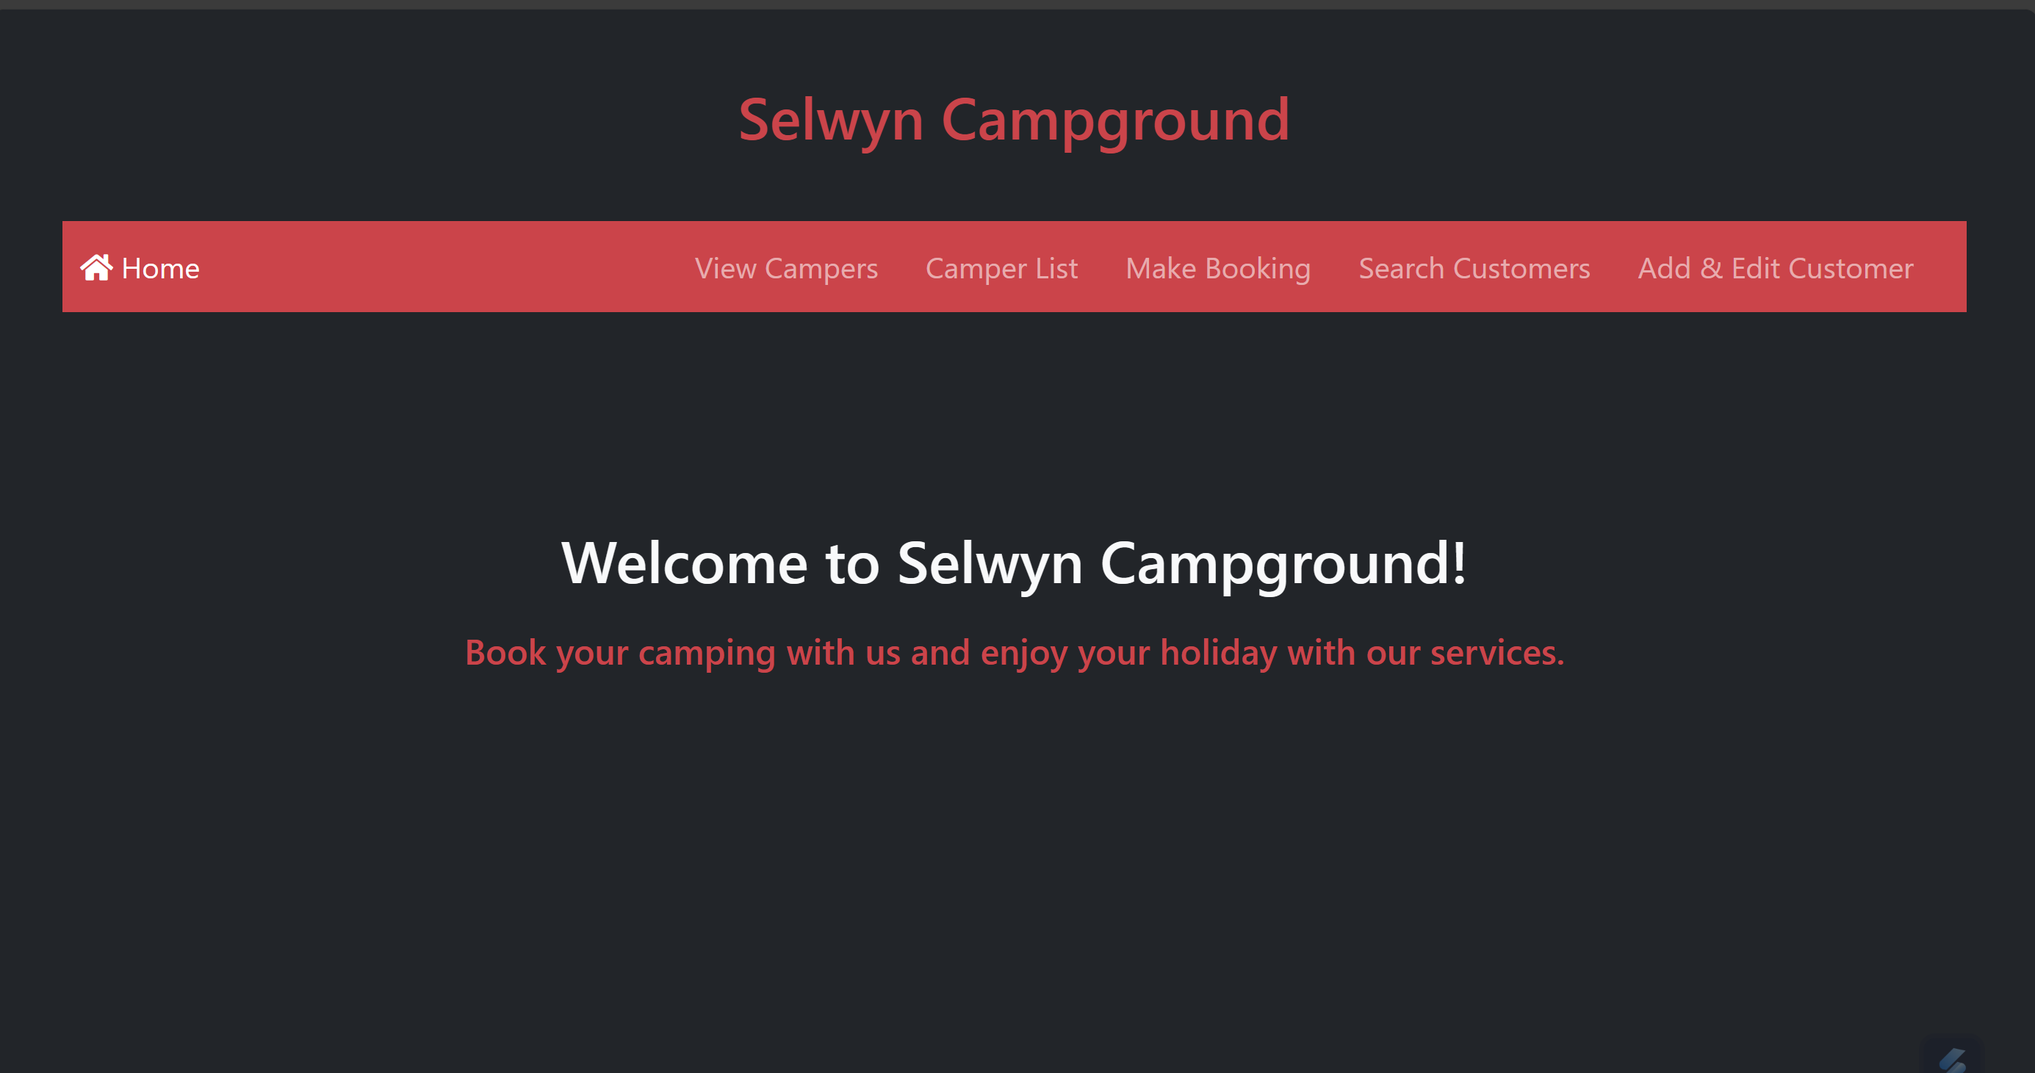
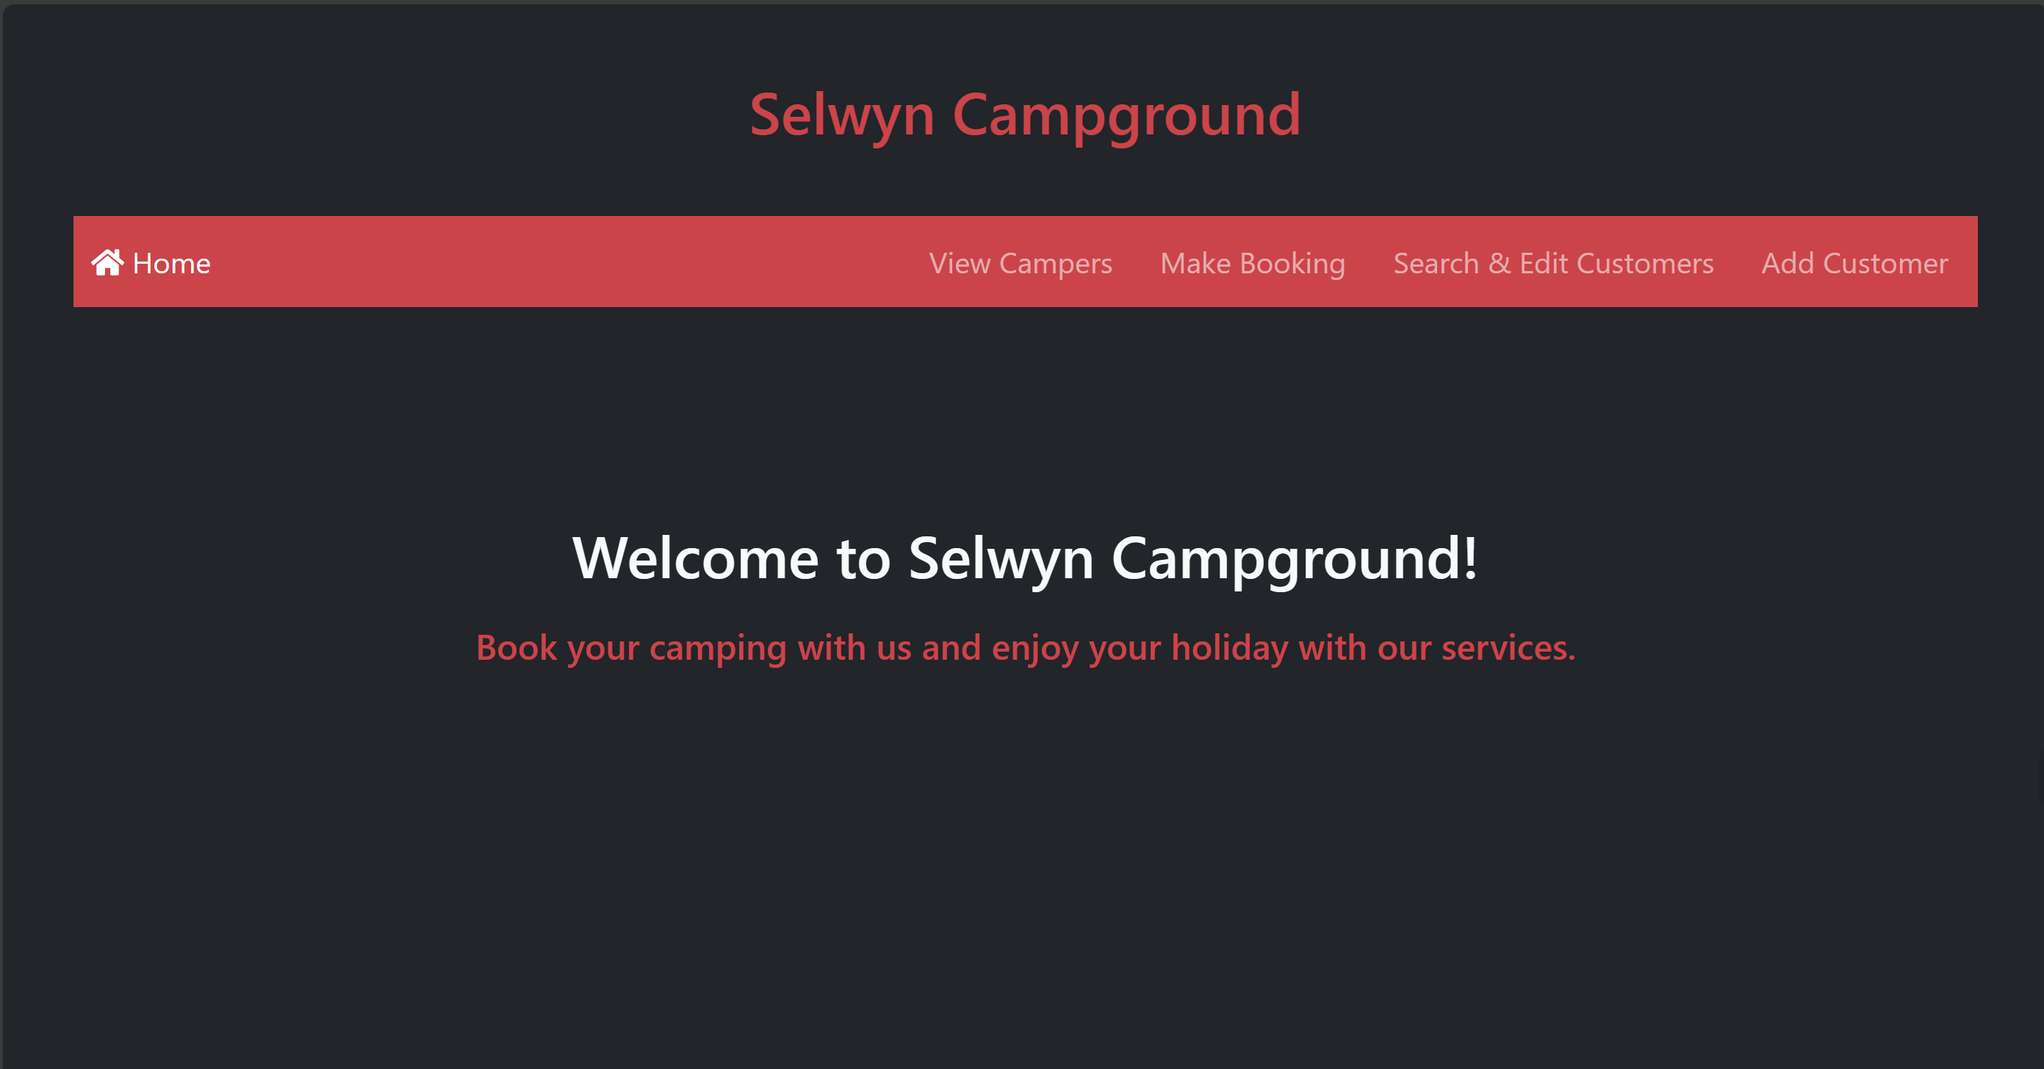
add some style- bootstrap

diff --git a/templates/addeditcustomer.html b/templates/addeditcustomer.html
@@ -1,51 +1,45 @@
 {% extends "base.html" %}
 {% block content %}
 
-<div class="container-zone mt-5 justify-content-center mx-5">
-  <h2 class="text-danger text-center">{{ 'Edit' if customer else 'Add' }} Customer</h2>
-  <!--form for add or edit customer-->
-  <!-- Modal for Success Message -->
-<div class="modal fade" id="successModal" tabindex="-1" aria-labelledby="successModalLabel" aria-hidden="true">
-<div class="modal-dialog">
-<div class="modal-content">
-  <div class="modal-header">
-    <h5 class="modal-title" id="successModalLabel">Success!</h5>
-    <button type="button" class="btn-close" data-bs-dismiss="modal" aria-label="Close"></button>
-  </div>
-  <div class="modal-body">
-    Customer has been successfully added.
-  </div>
-</div>
-</div>
-</div>
+<div class="container mt-5">
+  <div class="row justify-content-center">
+      <div class="col-md-8">
+          <h2 class="text-danger text-center mt-2">{{ mode }} Customer</h2>
+
+<!-- Flash messages -->
+{% with messages = get_flashed_messages(with_categories=true) %}
+    {% if messages %}
+        {% for category, message in messages %}
+            <div class=" fs-5 text-center alert alert-{{ category }}">{{ message }}</div>
+        {% endfor %}
+    {% endif %}
+{% endwith %}
+
 <!--form for adding customer-->
-  <form action="{{ url_for('add_edit_customer') }}" method="post" class="m-5 needs-validation novalidate">
+  <form action="{{ url_for('add_edit_customer') }}" method="post" class="needs-validation novalidate mt-5">
       <div class="mb-3">
-          <label for="firstname" class="form-label text-light">First Name</label>
-          <input type="text" class="form-control" id="firstname" name="firstname" value="{{ customer[1].firstname if customer else '' }}" required>
+          <!--<label for="firstname" class="form-label text-light">First Name</label>-->
+          <input type="text" class="form-control " id="firstname" name="firstname" placeholder="First Name" value="{{ customer.firstname if customer else '' }}" required>
       </div>
       <div class="mb-3">
-          <label for="familyname" class="form-label text-light">Family Name</label>
-          <input type="text" class="form-control" id="familyname" name="familyname" value="{{ customer[2].familyname if customer else '' }}" required>
+         <!-- <label for="familyname" class="form-label text-light">Family Name</label>-->
+          <input type="text" class="form-control " id="familyname" name="familyname" placeholder="Family Name" value="{{ customer.familyname if customer else '' }}" required>
       </div>
       <div class="mb-3">
-          <label for="email" class="form-label text-light">Email</label>
-          <input type="email" class="form-control" id="email" name="email" value="{{ customer[3].email if customer else '' }}" required>
+         <!-- <label for="email" class="form-label text-light">Email</label>-->
+          <input type="email" class="form-control " id="email" name="email" placeholder="Email" value="{{ customer.email if customer else '' }}" required>
       </div>
       <div class="mb-3">
-          <label for="phone" class="form-label text-light">Phone</label>
-          <input type="text" class="form-control p53" id="phone" name="phone" value="{{ customer[4].phone if customer else '' }}" required>
+          <!--<label for="phone" class="form-label text-light">Phone</label>-->
+          <input type="text" class="form-control " id="phone"  name="phone" placeholder="Phone" value="{{ customer.phone if customer else '' }}" required>
       </div>
       <div class="d-flex justify-content-center">
-          <button type="submit" class="btn btn-danger">{{ 'Update' if customer else 'Add' }} Customer</button>
+          <button type="submit" class="btn btn-danger btn-outline-successprimary justify-content-center fs-6 w-25">{{ 'Update' if customer else 'Add' }} Customer</button>
       </div>
 
-  </form>
-  {% for message in get_flashed_messages() %}
-  <script>
-    $(document).ready(function(){
-      $('#successModal').modal('show');
-    });
-  </script>
-{% endfor %}
+    </form>
+  </div>
+</div>
+</div>
+  
 {% endblock %}

diff --git a/templates/base.html b/templates/base.html
@@ -20,26 +20,30 @@
                 <span class="navbar-toggler-icon"></span>
             </button>
             <!--Navbar items styled with bootstrap-->
-            <div class="collapse navbar-collapse" id="navbarNav">
-                <ul class="navbar-nav ms-auto text-light">
+            <div class="collapse navbar-collapse pr-4" id="navbarNav">
+                <ul class="navbar-nav ms-auto text-light pr-4">
                     
                     <li class="nav-item pe-3 text-light">
                       <!--code in the double parantesis is for turning text black, when the page is open-->
                         <a class="nav-link fs-5 {{ 'text-dark' if request.endpoint == 'campers' else '' }}" href="{{ url_for('campers') }}">View Campers</a>
                     </li>
-                    <li class="nav-item pe-3 text-light">
+                    <!--<li class="nav-item pe-3 text-light">
                         <a class="nav-link fs-5 {{ 'text-dark' if request.endpoint == 'camper_list' else '' }}" href="{{ url_for('camper_list') }}">Camper List</a>
-                    </li>
+                    </li>-->
                     <li class="nav-item pe-3 text-light">
                         <a class="nav-link fs-5 {{ 'text-dark' if request.endpoint == 'booking' else '' }}"  href="{{ url_for('booking') }}">Make Booking</a>
                     </li>
                     <li class="nav-item pe-3 text-light">
-                        <a class="nav-link fs-5 {{ 'text-dark' if request.endpoint == 'search_customers' else '' }}" href="{{ url_for('search_customers') }}">Search Customers</a>
-                    </li>
-                    <li class="nav-item pe-3 text-light">
-                        <a class="nav-link fs-5 {{ 'text-dark' if request.endpoint == 'add_edit_customer' else '' }}" href="{{ url_for('add_edit_customer') }}">Add & Edit Customer</a>
-                    </li>
-                </ul>
+                        <a class="nav-link fs-5 {{ 'text-dark' if request.endpoint == 'search_customers' else '' }}" href="{{ url_for('search_customers') }}">Search & Edit Customers</a>
+                      </li>
+                        <li class="nav-item">
+                          {% if mode == 'Edit' %}
+                              <a class="nav-link fs-5" href="{{ url_for('add_edit_customer') }}">Edit Customer</a>
+                          {% else %}
+                              <a class="nav-link fs-5" href="{{ url_for('add_edit_customer') }}">Add Customer</a>
+                          {% endif %}
+                      </li>
+                 </ul>
             </div>
         </div>
     </nav>

diff --git a/templates/searchcustomers.html b/templates/searchcustomers.html
@@ -1,19 +1,21 @@
 {% extends "base.html" %}
 {% block content %}
-<div class="container-zone mt-5 justify-content-center mx-5">
+<div class="container mt-5">
+  <div class="row justify-content-center">
+      <div class="col-md-9">
   <h2 class=" text-danger text-center">Search Customers</h2>
-  <form action="{{ url_for('search_customers') }}" method="post" class="m-5 px-5" >
+  <form action="{{ url_for('search_customers') }}" method="post" class="m-5 " >
       <div class="mb-2">
-          <label for="search" class="form-label text-light">Customer Name:</label>
-          <input type="text" class="form-control" id="search" name="search">
+          <!--<label for="search" class="form-label text-light">Customer Name:</label>-->
+          <input type="text" class="form-control " id="search" name="search" placeholder="Customer Name">
       </div>
       <div class="d-flex justify-content-center">
-          <button type="submit" class="btn btn-danger">Search</button>
+          <button type="submit" class="btn btn-danger btn-outline-successprimary justify-content-center fs-6 w-25 mt-3">Search</button>
       </div>
   </form>
 {% if results %}
-    <h3 class=" text-light text-center m-3">Search results. Please click on the first name if you like to edit customer information:</h3>
-    <div class="container-zone mt-5 justify-content-center mx-5">
+    <h3 class=" text-light text-center m-3">Search results<br /><br />Please click on Edit if you like to edit customer information</h3>
+    <div class="container-zone mt-5 justify-content-center">
     <table class='table table-dark'>
         <tr>
             <th class=" text-light text-center">First Name</th>
@@ -28,12 +30,16 @@
             <td class=" text-light text-center">{{ customer[2] }}</td>
             <td class=" text-light text-center">{{ customer[3] }}</td>
             <td class=" text-light text-center">{{ customer[4] }}</td>
-            <td class=" text-light text-center"><a href="{{ url_for('add_edit_customer', id=customer[0]) }}">Edit</a></td>
+            <td class=" text-light text-center"><a class=" text-danger fs-5" href="{{ url_for('add_edit_customer', id=customer[0]) }}">Edit</a></td>
         </tr>
         {% endfor %}
     </table>
   </div>
+</div>
+</div>
 {% else %}
-    <p>No customers found. Try different keywords.</p>
+{% if message %}
+<h3 class=" text-light text-center">{{ message }}</h3>
+{% endif %}
 {% endif %}
 {% endblock %}

diff --git a/templates/datepicker.html b/templates/datepicker.html
@@ -1,26 +1,30 @@
 {% extends "base.html" %}
 {% block content %}
 <!-- code in here to display a list of books-->
-<div class="container-zone mt-5 justify-content-center mx-5">
-  <h2 class="text-danger text-center"> Make a Booking</h2>
+<div class="container mt-5">
+  <div class="row justify-content-center">
+      <div class="col-md-8">
+        <h2 class="text-danger text-center"> Make a Booking</h2>
   <h3 class="mb-3 text-light text-center">Choose the date you'd like the booking to start on.</h3>
   <form action="{{ url_for('booking') }}" method="POST" class="m-5">
       <div class="mb-3">
-          <label for="bookingdate" class="form-label text-light mx-5">Choose start night of booking</label>
-          <input type="date" class="form-control mx-5" min="{{ currentdate }}" name="bookingdate" required>
+          <label for="bookingdate" class="form-label text-light">Choose start night of booking</label>
+          <input type="date" class="form-control" min="{{ currentdate }}" name="bookingdate" required>
       </div>
       <div class="mb-3">
-          <label for="bookingnights" class="form-label text-light mx-5">Number of nights</label>
-          <input type="number" class="form-control mx-5" name="bookingnights" min="1" max="5" step="1" value="1" required>
+          <label for="bookingnights" class="form-label text-light">Number of nights</label>
+          <input type="number" class="form-control" name="bookingnights" min="1" max="5" step="1" value="1" required>
       </div>
       <div class="mb-3">
-          <label for="occupancy" class="form-label text-light mx-5">Number of people</label>
-          <input type="number" class="form-control mx-5" name="occupancy" min="1" max="8" step="1" value="1" required>
+          <label for="occupancy" class="form-label text-light">Number of people</label>
+          <input type="number" class="form-control" name="occupancy" min="1" max="8" step="1" value="1" required>
       </div>
       <div class="d-flex justify-content-center">
-      <button type="submit" class="btn btn-danger my-4">Submit</button>
+      <button type="submit" class="btn btn-danger btn-outline-successprimary justify-content-center fs-6 w-25 mt-3">Submit</button>
       </div>
   </form>
+</div>
+</div>
 </div>
 
 {% endblock %}

diff --git a/templates/datepickercamper.html b/templates/datepickercamper.html
@@ -1,7 +1,9 @@
 {% extends "base.html" %}
 {% block content %}
 <!-- code in here to display a list of books-->
-<div class="container-zone mt-5 justify-content-center mx-5">
+<div class="container mt-5">
+  <div class="row justify-content-center">
+      <div class="col-md-8">
   <h2 class="text-danger text-center "> Who is camping?</h2>
   <h3 class="mb-3">Choose the date you'd like to view who is camping.</h3>
   <form action="{{ url_for('camper_list') }}" method="get" class="m-5">
@@ -10,9 +12,11 @@
     <input type="date" class="form-control" id="campdate" name="campdate" value="{{ currentdate }}" required>
    </div>
       <div class="d-flex justify-content-center">
-      <button type="submit" class="btn btn-danger mt-2">View Campers</button>
+      <button type="submit" class="btn btn-danger btn-outline-successprimary justify-content-center fs-6 w-25 mt-3">View Campers</button>
       </div>
   </form>
+</div>
+</div>
 </div>
 
 {% endblock %}

diff --git a/templates/camperlist.html b/templates/camperlist.html
@@ -8,6 +8,14 @@
       {% for camper in camperlist %}
         <a href="#" class="list-group-item list-group-item-action text-light m-5">
           Name: {{ camper.firstname }} {{ camper.familyname }} - Site: {{ camper.site_id }} - Date: {{ camper.booking_date | date: "%Y-%m-%d" }}
+          <table class='table table-dark'>
+            <tr>
+                <th class=" text-light text-center">First Name</th>
+                <th class=" text-light text-center">Family Name</th>
+                <th class=" text-light text-center">Email</th>
+                <th class=" text-light text-center">Phone</th>
+                <th class=" text-light text-center">Edit</th>
+            </tr>
         </a>
       {% endfor %}
     {% else %}

diff --git a/app.py b/app.py
@@ -86,35 +86,27 @@ def booking():
         return render_template("bookingform.html", customerlist = customerList, bookingdate=bookingDate, sitelist = siteList, bookingnights = bookingNights)    
 
   # booking/add 
-@app.route("/booking/add", methods=['POST'])
 def makebooking():
-    cursor, conn = getCursor()
-    if not cursor:
-        flash("Database connection could not be established.", "error")
-        return redirect(url_for('booking'))
-
+    site = request.form.get('site')
+    customer = request.form.get('customer')
+    booking_date = request.form.get('bookingdate')
+    occupancy = request.form.get('occupancy')
+    booking_nights = int(request.form.get('bookingnights'))
+    cursor = getCursor()
+    end_date = datetime.strptime(booking_date, '%Y-%m-%d') + timedelta(days=booking_nights)
     try:
-        site = request.form.get('site')
-        customer = request.form.get('customer')
-        booking_date = request.form.get('bookingdate')
-        occupancy = request.form.get('occupancy')
-        booking_nights = int(request.form.get('bookingnights'))
-        end_date = datetime.strptime(booking_date, '%Y-%m-%d') + timedelta(days=booking_nights)
-
-        cursor.execute("INSERT INTO bookings (site, customer, booking_date, end_date, occupancy) VALUES (%s, %s, %s, %s, %s)",
-                       (site, customer, booking_date, end_date.strftime('%Y-%m-%d'), occupancy))
-        conn.commit()
-        flash('Booking successfully added!', 'success')
+        cursor.execute("INSERT INTO bookings (site, customer, booking_date, end_date, occupancy) VALUES (%s, %s, %s, %s, %s)", (site, customer, booking_date, end_date.strftime('%Y-%m-%d'), occupancy))
+        flash('Booking successfully added!')
+        return redirect(url_for('booking'))
     except mysql.connector.Error as err:
-        flash(f'Failed to add booking: {err}', 'error')
-
-    return redirect(url_for('booking'))
-
+        flash(f'Failed to add booking: {err}')
+        return redirect(url_for('bookingconfirmation.html'))
 
 # search customers
 @app.route("/search/customers", methods=['GET', 'POST'])
 def search_customers():
     results = []
+    message = ""
     if request.method == 'POST':
         search_query = request.form.get('search', '').strip()
         if search_query:
@@ -123,45 +115,48 @@ def search_customers():
                 cursor.execute("SELECT * FROM customers WHERE firstname LIKE %s OR familyname LIKE %s", 
                                ('%' + search_query + '%', '%' + search_query + '%'))
                 results = cursor.fetchall()
-    return render_template("searchcustomers.html", results=results)
+                if not results:
+                    message = f"Sorry, there are no results for '{search_query}'."
+    return render_template("searchcustomers.html", results=results, message=message)
 
 
-
+  
 # add_edit_customer
 @app.route('/add_edit_customer', methods=['GET', 'POST'])
 def add_edit_customer():
-    customer_id = request.args.get('id')
+    customer_id = request.args.get('id', None)
     cursor, conn = getCursor()
-    if not cursor:
-        flash("Database connection could not be established.", "error")
-        return render_template("error_page.html")
-
-    customer = None
-    if customer_id:
-        cursor.execute("SELECT * FROM customers WHERE customer_id = %s", (customer_id,))
-        customer = cursor.fetchone()
 
     if request.method == 'POST':
         firstname = request.form.get('firstname')
         familyname = request.form.get('familyname')
         email = request.form.get('email')
         phone = request.form.get('phone')
-        if customer:
-            cursor.execute("UPDATE customers SET firstname=%s, familyname=%s, email=%s, phone=%s WHERE customer_id=%s",
-                           (firstname, familyname, email, phone, customer_id))
+
+        if customer_id:  # Update existing customer
+            cursor.execute("""
+                UPDATE customers SET firstname=%s, familyname=%s, email=%s, phone=%s 
+                WHERE customer_id=%s
+            """, (firstname, familyname, email, phone, customer_id))
             conn.commit()
             flash('Customer updated successfully!', 'success')
-        else:
-            cursor.execute("INSERT INTO customers (firstname, familyname, email, phone) VALUES (%s, %s, %s, %s)",
-                           (firstname, familyname, email, phone))
+        else:  # Add new customer
+            cursor.execute("""
+                INSERT INTO customers (firstname, familyname, email, phone) 
+                VALUES (%s, %s, %s, %s)
+            """, (firstname, familyname, email, phone))
             conn.commit()
             flash('Customer added successfully!', 'success')
-        return redirect(url_for('add_edit_customer', id=customer_id if customer else cursor.lastrowid))
+            return redirect(url_for('add_edit_customer'))  # Redirect to clear form
 
-    return render_template("addeditcustomer.html", customer=customer)
-
-
-
+    customer = None
+    if customer_id:  # Load customer for editing
+        cursor.execute("SELECT * FROM customers WHERE customer_id = %s", (customer_id,))
+        customer = cursor.fetchone()
+        return render_template("addeditcustomer.html", customer=customer, mode='Edit')
+    else:
+        return render_template("addeditcustomer.html", customer=customer, mode='Add')
+    return render_template("addeditcustomer.html", mode='Add' if not customer else 'Edit', customer=customer)
       
 # for error handling
 if __name__ == "__main__":

diff --git a/README.md b/README.md
@@ -5,7 +5,7 @@ please have a look on my project here: https://suezadeh.pythonanywhere.com/
 ## Database questions
 ## Design decisions
 
-| ![SelwynCampground](Docs/SelwynCampground.png)
+ ![SelwynCampground](Docs/SelwynCampground.png)
 
 
 ** Database questions:**   
@@ -20,7 +20,7 @@ please have a look on my project here: https://suezadeh.pythonanywhere.com/
   `familyname` VARCHAR(60) NOT NULL,  
   `email` VARCHAR(255) NULL,  
   `phone` VARCHAR(12) NULL,  
-   PRIMARY KEY (`customer_id`));    
+   PRIMARY KEY (`customer_id`));```    
   
   
 **2- Which line of SQL code sets up the relationship between the customer and booking tables?**     
@@ -64,7 +64,7 @@ please have a look on my project here: https://suezadeh.pythonanywhere.com/
    INSERT INTO `bookings` (`booking_id`, `site`, `customer`, `booking_date`,`occupancy`) VALUES ('235', 'U2', '241', '2024-06-02','2');    
    INSERT INTO `bookings` (`booking_id`, `site`, `customer`, `booking_date`,`occupancy`)   VALUES ('236', 'U2', '241', '2024-06-05','2');  
    INSERT INTO `bookings` (`booking_id`, `site`, `customer`, `booking_date`,`occupancy`)     VALUES ('237', 'U2', '241', '2024-07-05','2');  
-   INSERT INTO `bookings` (`booking_id`, `site`, `customer`, `booking_date`,`occupancy`)     VALUES ('238', 'U2', '241', '2024-07-06','2');     
+   INSERT INTO `bookings` (`booking_id`, `site`, `customer`, `booking_date`,`occupancy`)     VALUES ('238', 'U2', '241', '2024-07-06','2');```     
 
 **4- Suppose that as part of an audit trail, the time and date a booking was added to the database needed to be recorded. What fields/columns would you need to add to which tables? Provide the table name, new column name and the data type. (Do not implement this change in your app.)**   
 
